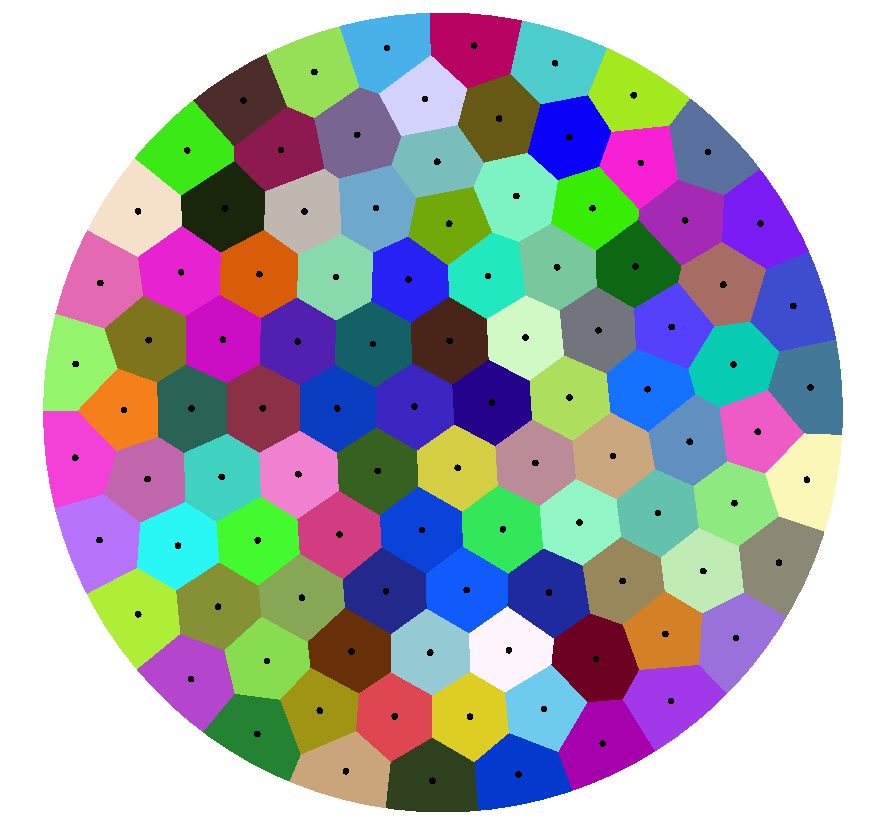
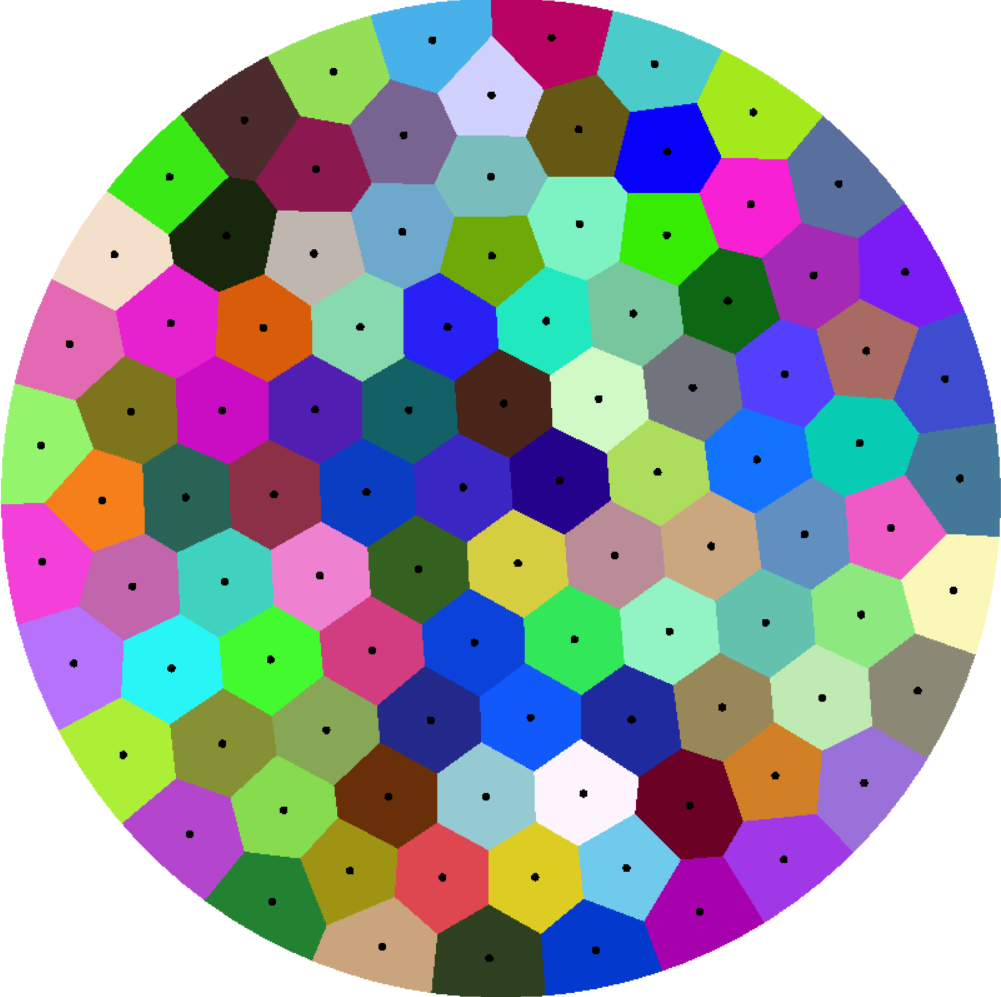
Add more examples.

diff --git a/test_main/Source.cpp b/test_main/Source.cpp
@@ -24,8 +24,10 @@ bool LoadBoundary(const char *fileName, Nef_polyhedron &boundaryNef)
 		return false;
 	}
 
-	list< Polygon_2 > boundaryOuter, boundaryInner;
-	Polygon_2 outLine;
+	// loading boundary information
+	TPolygon_2 outLine;
+	list< TPolygon_2 > partitionedOuter, partitionedInner;
+	list< TPolygon_2 > boundaryOuter, boundaryInner;
 	string curLine;
 	bool isOuter = true;
 	while (getline(input, curLine))
@@ -43,7 +45,7 @@ bool LoadBoundary(const char *fileName, Nef_polyhedron &boundaryNef)
 			double x, y;
 			stringstream sin;
 			sin << curLine; sin >> x >> y;
-			outLine.push_back(Point_2(x, y));
+			outLine.push_back(TPoint_2(x, y));
 		}
 	}
 	if (!outLine.is_empty())
@@ -52,29 +54,53 @@ bool LoadBoundary(const char *fileName, Nef_polyhedron &boundaryNef)
 		else boundaryInner.push_back(outLine);
 	}
 
-	boundaryNef = Nef_polyhedron(Nef_polyhedron::EMPTY);
+	// partitioning...
+	cout << "Partitioning..." << endl;
 	for (auto &Outer : boundaryOuter)
 	{
-		Nef_polyhedron curPolygon(Nef_polyhedron::COMPLETE);
+		Traits partition_traits;
+		Validity_traits validity_traits;
+		list< TPolygon_2 > curPartition;
+		CGAL::optimal_convex_partition_2(Outer.vertices_begin(), Outer.vertices_end(), back_inserter(curPartition), partition_traits);
+		assert(CGAL::partition_is_valid_2(Outer.vertices_begin(), Outer.vertices_end(), curPartition.begin(), curPartition.end(), validity_traits));
+		partitionedOuter.insert(partitionedOuter.end(), curPartition.begin(), curPartition.end());
+	}
+	for (auto &Inner : boundaryInner)
+	{
+		Traits partition_traits;
+		Validity_traits validity_traits;
+		list< TPolygon_2 > curPartition;
+		CGAL::optimal_convex_partition_2(Inner.vertices_begin(), Inner.vertices_end(), back_inserter(curPartition), partition_traits);
+		assert(CGAL::partition_is_valid_2(Inner.vertices_begin(), Inner.vertices_end(), curPartition.begin(), curPartition.end(), validity_traits));
+		partitionedInner.insert(partitionedInner.end(), curPartition.begin(), curPartition.end());
+	}
+	cout << "Partition result: " << endl;
+	cout << "Outer: " << partitionedOuter.size() << ", Inner: " << partitionedInner.size() << endl;
+
+	boundaryNef = Nef_polyhedron(Nef_polyhedron::EMPTY);
+	for (auto &Outer : partitionedOuter)
+	{
+		auto curPolygon = Nef_polyhedron(Nef_polyhedron::COMPLETE);
 		for (auto v = Outer.vertices_begin(); v != Outer.vertices_end(); ++v)
 		{
-			auto vNext = v; ++vNext; if (vNext == Outer.vertices_end()) vNext = Outer.vertices_begin();
-			// construct line
+			auto vNext = v; ++vNext;
+			if (vNext == Outer.vertices_end()) vNext = Outer.vertices_begin();
 			curPolygon *= Nef_polyhedron(ConstructHalfPlane(*v, *vNext));
 		}
 		boundaryNef += curPolygon;
 	}
-	for (auto &Inner : boundaryInner)
+	for (auto &Inner : partitionedInner)
 	{
-		Nef_polyhedron curPolygon(Nef_polyhedron::COMPLETE);
+		auto curPolygon = Nef_polyhedron(Nef_polyhedron::COMPLETE);
 		for (auto v = Inner.vertices_begin(); v != Inner.vertices_end(); ++v)
 		{
-			auto vNext = v; ++vNext; if (vNext == Inner.vertices_end()) vNext = Inner.vertices_begin();
-			// construct line
+			auto vNext = v; ++vNext;
+			if (vNext == Inner.vertices_end()) vNext = Inner.vertices_begin();
 			curPolygon *= Nef_polyhedron(ConstructHalfPlane(*v, *vNext));
 		}
 		boundaryNef -= curPolygon;
 	}
+
 	return true;
 }
 
@@ -112,11 +138,13 @@ int main(int argc, char **argv)
 	cvt.AssignGeneratorNum(Ng);
 	cvt.AssignInitGenerators(generators);
 
-	cvt.SetMaxIteration(300);
-	cvt.SetMinMove(0.0);
+	cvt.SetMaxIteration(1000);
+	cvt.SetMinMove(1e-7);
 
 	cvt.Execute();
 
-	cvt.PrintGenerators();
+	ofstream output("finalState.txt");
+	cvt.PrintGenerators(output);
+	output.close();
 	return 0;
 }

diff --git a/CVT2D/CVT2D.h b/CVT2D/CVT2D.h
@@ -32,6 +32,15 @@
 #include <CGAL/Extended_cartesian.h>
 #include <CGAL/Nef_polyhedron_2.h>
 
+// includes for convex partition
+#include <CGAL/Partition_traits_2.h>
+#include <CGAL/Partition_is_valid_traits_2.h>
+#include <CGAL/polygon_function_objects.h>
+#include <CGAL/partition_2.h>
+#include <CGAL/point_generators_2.h>
+#include <CGAL/random_polygon_2.h>
+#include <cassert>
+
 // typedefs for Voronoi diagram
 typedef CGAL::Exact_predicates_exact_constructions_kernel			K;
 typedef CGAL::Delaunay_triangulation_2<K>							DT;
@@ -57,6 +66,14 @@ typedef CGAL::Extended_cartesian<RT> Extended_kernel;
 typedef CGAL::Nef_polyhedron_2<Extended_kernel> Nef_polyhedron;
 typedef Nef_polyhedron::Line  Line;
 
+// typedefs for convex partition
+typedef CGAL::Partition_traits_2<K>                         Traits;
+typedef CGAL::Is_convex_2<Traits>                           Is_convex_2;
+typedef Traits::Polygon_2                                   TPolygon_2;
+typedef Traits::Point_2                                     TPoint_2;
+typedef CGAL::Partition_is_valid_traits_2 < Traits, Is_convex_2 > Validity_traits;
+typedef CGAL::Creator_uniform_2<int, TPoint_2>               Creator;
+
 // This class is exported from the CVT2D.dll
 class CVT2D_API CCVT2D {
 public:
@@ -73,7 +90,7 @@ public:
 
 	void Execute();
 
-	void PrintGenerators();
+	void PrintGenerators(std::ostream &output);
 
 private:
 	template< typename T >

diff --git a/CVT2D/CVT2D.cpp b/CVT2D/CVT2D.cpp
@@ -55,6 +55,12 @@ void CCVT2D::Execute()
 		for (auto generator : generators)
 			vd.insert(Site_2(generator.x(), generator.y()));
 		
+		string fileName = "iter_";
+		fileName += to_string(i) + ".txt";
+		ofstream output(fileName);
+		PrintGenerators(output);
+		output.close();
+
 		generators.clear();
 
 		double maxMoveDist = 0.0;
@@ -160,11 +166,11 @@ void CCVT2D::Execute()
 	}
 }
 
-void CCVT2D::PrintGenerators()
+void CCVT2D::PrintGenerators(ostream &output)
 {
 	for (auto p : generators)
 	{
-		cout << CGAL::to_double(p.x()) << " " << CGAL::to_double(p.y()) << endl;
+		output << CGAL::to_double(p.x()) << " " << CGAL::to_double(p.y()) << endl;
 	}
 }
 
